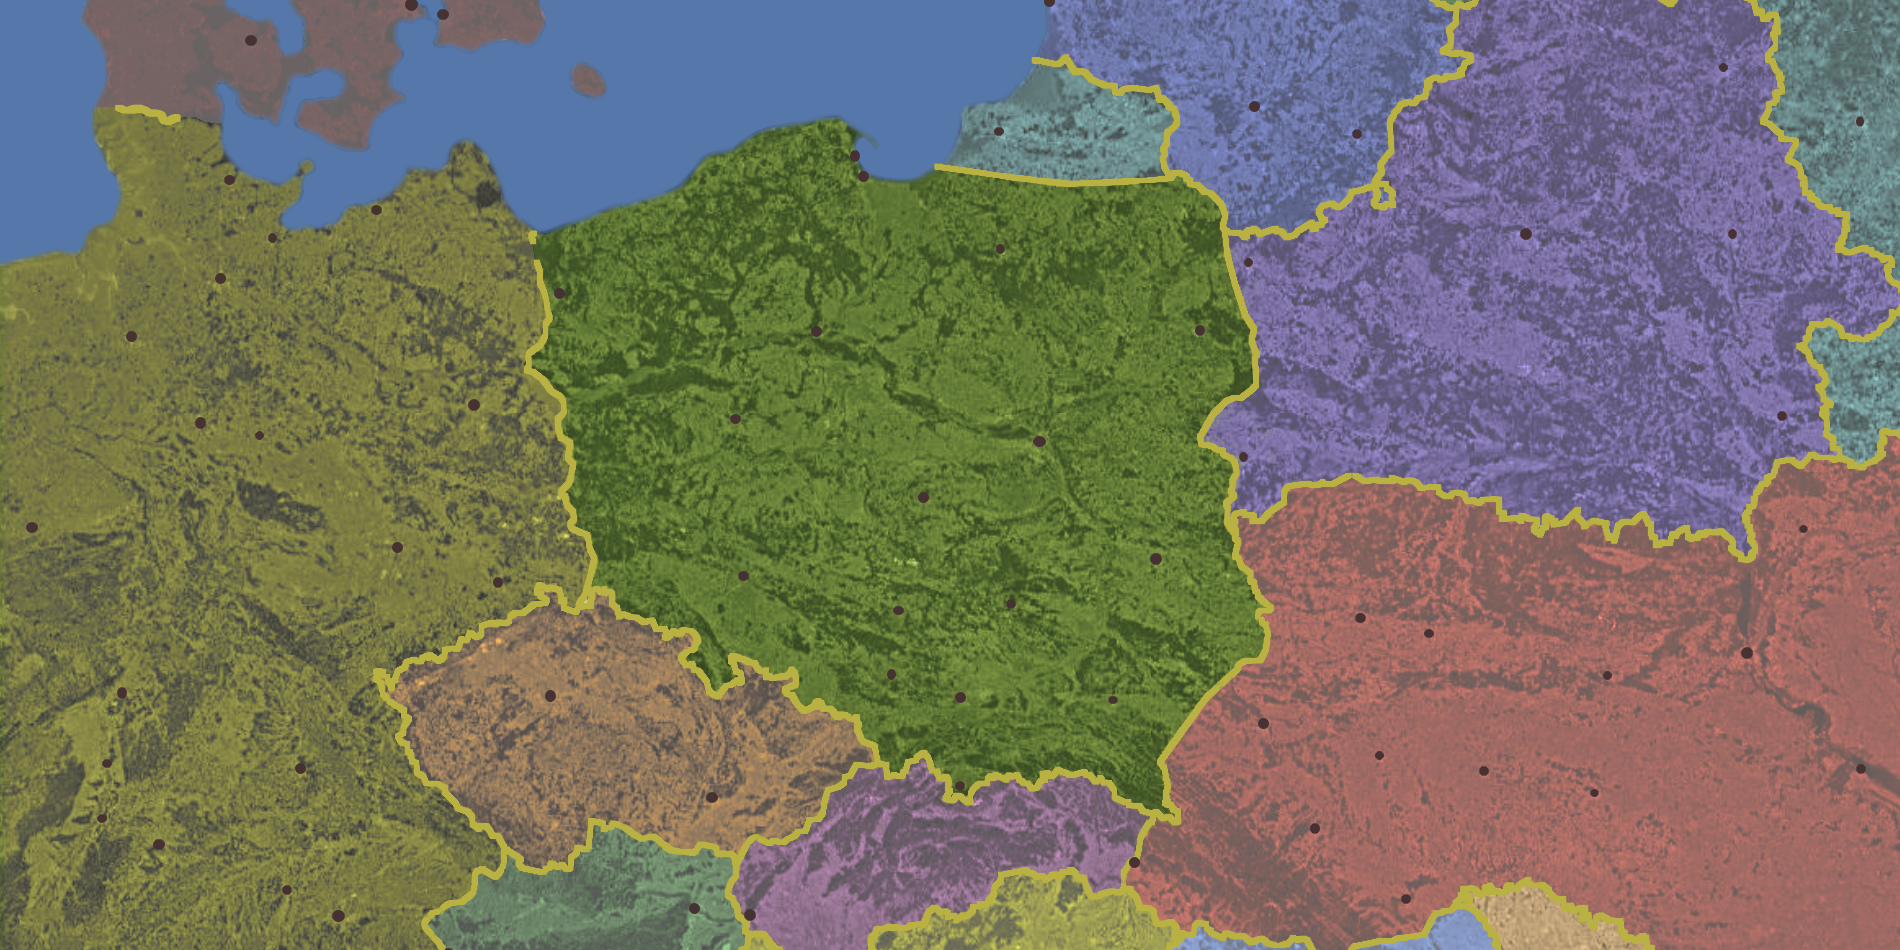
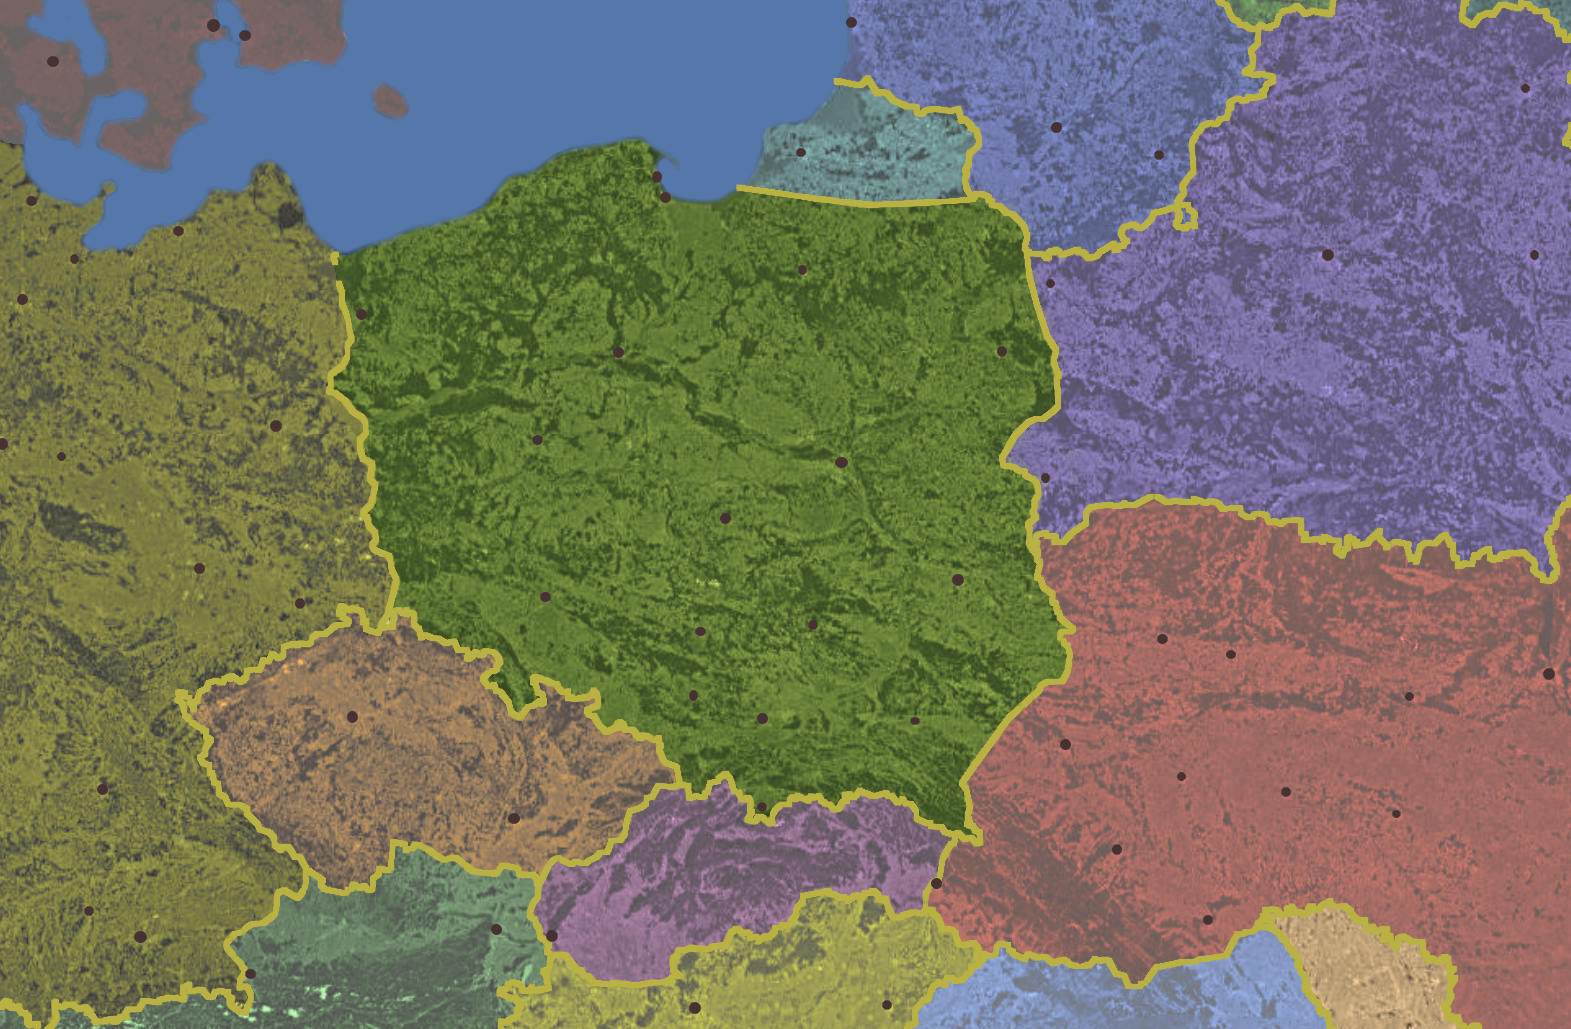
added player info

diff --git a/frontend/src/app/game/player-card/player-card.component.scss b/frontend/src/app/game/player-card/player-card.component.scss
@@ -2,34 +2,33 @@
   display: flex;
   height: 100%;
   align-items: center;
-  margin: 0 .5vw;
-}
 
-.game-card {
-  box-sizing: border-box;
-  margin: 5px;
-  width: 4vw;
-  height: 7vw;
-  border: .5vw solid #DDD;
-  border-radius: .5vw;
-  box-shadow: 0px 0px 15px rgba($color: #000, $alpha: .7);
+  .game-card {
+    box-sizing: border-box;
+    margin: 8px 4px 8px 8px;
+    width: 7vw;
+    height: 4vw;
+    border: .5vw solid #DDD;
+    border-radius: .5vw;
+    box-shadow: 0px 0px 15px rgba($color: #000, $alpha: .7);
+    
+    // transition: all 0.15s linear;
+    // 
+    // &:hover {
+    //   cursor: pointer;
+    //   filter: brightness(110%);
+    //   box-shadow: 5px 5px 25px rgba($color: #000, $alpha: .7);
+    // }
   
-  // transition: all 0.15s linear;
-  // 
-  // &:hover {
-  //   cursor: pointer;
-  //   filter: brightness(110%);
-  //   box-shadow: 5px 5px 25px rgba($color: #000, $alpha: .7);
-  // }
-
-  &--unknown { background: var(--color-cardback); }
-  &--red     { background: var(--color-red); }
-  &--blue    { background: var(--color-blue); }
-  &--green   { background: var(--color-green); }
-  &--yellow  { background: var(--color-yellow); }
-  &--purple  { background: var(--color-purple); }
-  &--orange  { background: var(--color-orange); }
-  &--white   { background: var(--color-white); }
-  &--black   { background: var(--color-black); }
-  &--joker   { background: var(--color-joker); }
+    &--unknown { background: var(--color-cardback); }
+    &--red     { background: var(--color-red); }
+    &--blue    { background: var(--color-blue); }
+    &--green   { background: var(--color-green); }
+    &--yellow  { background: var(--color-yellow); }
+    &--purple  { background: var(--color-purple); }
+    &--orange  { background: var(--color-orange); }
+    &--white   { background: var(--color-white); }
+    &--black   { background: var(--color-black); }
+    &--joker   { background: var(--color-joker); }
+  }
 }

diff --git a/frontend/src/app/game/game.component.scss b/frontend/src/app/game/game.component.scss
@@ -7,12 +7,19 @@
   min-height: 100vh;
   max-height: 100vh;
   display: grid;
+  // grid-template-areas: 
+  //   'card-picker  gamemap'
+  //   'missions     gamemap'
+  //   'missions     player-cards';
+  // grid-template-columns: 1fr 5fr;
+  // grid-template-rows: 2fr 3fr 1fr;
+
   grid-template-areas: 
-    'card-picker  gamemap'
-    'missions     gamemap'
-    'missions     player-cards';
-  grid-template-columns: 1fr 5fr;
-  grid-template-rows: 2fr 3fr 1fr;
+    'card-picker  gamemap       player-cards'
+    'missions     gamemap       player-cards'
+    'missions     player-info   player-cards';
+  grid-template-columns: 1fr 4.4fr 0.6fr;
+  grid-template-rows:    2fr   4fr 0.3fr;
 
   .card-picker {
     display: flex;
@@ -34,18 +41,9 @@
     }
   }
   
-  .gamemap {
+  game-map {
     grid-area: gamemap;
     position: relative;
-
-    img {
-      position: absolute;
-      top: 0;
-      right: 0;
-      object-fit: contain;
-      max-height: 100%;
-      max-width: 100%;
-    }
   }
   
   .missions {
@@ -56,10 +54,26 @@
   .player-cards {
     grid-area: player-cards;
     display: flex;
-    justify-content: center;
+    flex-direction: column;
+    align-items: center;
 
     h3 {
-      margin-top: 12px;
+      margin-top: 10px;
+      text-align: center;
+    }
+  }
+
+  .player-info {
+    grid-area: player-info;
+    display: flex;
+    justify-content: space-evenly;
+    
+    player-info {
+      min-width: 15%;
+      margin: 0 10px;
+      display: flex;
+      flex-direction: column;
+      justify-content: flex-end;
     }
   }
 }

diff --git a/frontend/src/app/game/game-map/game-map.component.ts b/frontend/src/app/game/game-map/game-map.component.ts
@@ -1,0 +1,32 @@
+import { Component, OnInit } from '@angular/core';
+
+@Component({
+  selector: 'game-map',
+  templateUrl: './game-map.component.html',
+  styleUrls: ['./game-map.component.scss']
+})
+export class GameMapComponent implements OnInit {
+
+  constructor() { }
+
+  ngOnInit(): void {
+  }
+
+  createTrain(event: any) {
+    const gameMap = document.querySelector('game-map');
+    const mapWidth = gameMap!.getBoundingClientRect().width;
+    const mapHeight = gameMap!.getBoundingClientRect().height;
+    const train = document.createElement('train');
+    train.style.position = "absolute";
+    train.style.top = `${(event.clientY / mapHeight) * 100}%`;
+    train.style.right = `${(gameMap!.getBoundingClientRect().right - event.clientX) / mapWidth * 100}%`;
+    train.style.width = "45px";
+    train.style.height = "15px";
+    train.style.background = "gray";
+    train.style.boxShadow = "2px 2px 7px black, inset 2px 2px 5px rgba(255, 255, 255, 0.7)";
+    train.style.border = "2px solid darkgray"
+    train.style.cursor = "pointer"
+    gameMap!.appendChild(train);
+  }
+
+}

diff --git a/frontend/src/app/game/game.component.html b/frontend/src/app/game/game.component.html
@@ -1,4 +1,5 @@
 <div class="game-container">
+
   <div class="card-picker">
     <h3 class="card-picker__title">Draw cards: </h3>
     <div class="card-picker__cards">
@@ -13,12 +14,13 @@
         ></game-card>
     </div>
   </div>
-  <div class="gamemap">
-    <img src="/assets/map_cities_edited.png" alt="map">
-  </div>
+
+  <game-map></game-map>
+
   <div class="missions">
 
   </div>
+
   <div class="player-cards">
     <h3>Your cards:</h3>
     <player-card 
@@ -27,4 +29,12 @@
       [card]="playerCard.card"
       ></player-card>
   </div>
+
+  <div class="player-info">
+    <player-info 
+      *ngFor="let player of game.players"
+      [player]="player"
+      ></player-info>
+  </div>
+
 </div>

diff --git a/frontend/src/app/game/player-info/player-info.component.spec.ts b/frontend/src/app/game/player-info/player-info.component.spec.ts
@@ -1,0 +1,25 @@
+import { ComponentFixture, TestBed } from '@angular/core/testing';
+
+import { PlayerInfoComponent } from './player-info.component';
+
+describe('PlayerInfoComponent', () => {
+  let component: PlayerInfoComponent;
+  let fixture: ComponentFixture<PlayerInfoComponent>;
+
+  beforeEach(async () => {
+    await TestBed.configureTestingModule({
+      declarations: [ PlayerInfoComponent ]
+    })
+    .compileComponents();
+  });
+
+  beforeEach(() => {
+    fixture = TestBed.createComponent(PlayerInfoComponent);
+    component = fixture.componentInstance;
+    fixture.detectChanges();
+  });
+
+  it('should create', () => {
+    expect(component).toBeTruthy();
+  });
+});

diff --git a/frontend/src/app/game/game-map/game-map.component.spec.ts b/frontend/src/app/game/game-map/game-map.component.spec.ts
@@ -1,0 +1,25 @@
+import { ComponentFixture, TestBed } from '@angular/core/testing';
+
+import { GameMapComponent } from './game-map.component';
+
+describe('GameMapComponent', () => {
+  let component: GameMapComponent;
+  let fixture: ComponentFixture<GameMapComponent>;
+
+  beforeEach(async () => {
+    await TestBed.configureTestingModule({
+      declarations: [ GameMapComponent ]
+    })
+    .compileComponents();
+  });
+
+  beforeEach(() => {
+    fixture = TestBed.createComponent(GameMapComponent);
+    component = fixture.componentInstance;
+    fixture.detectChanges();
+  });
+
+  it('should create', () => {
+    expect(component).toBeTruthy();
+  });
+});

diff --git a/frontend/src/app/game/game.module.ts b/frontend/src/app/game/game.module.ts
@@ -9,9 +9,11 @@ import { GameResolver } from './game.resolver';
 import { GameCardComponent } from './game-card/game-card.component';
 import { PlayerCardComponent } from './player-card/player-card.component';
 import { AuthModule } from '../auth/auth.module';
+import { GameMapComponent } from './game-map/game-map.component';
+import { PlayerInfoComponent } from './player-info/player-info.component';
 
 @NgModule({
-  declarations: [GameComponent, GameCardComponent, PlayerCardComponent],
+  declarations: [GameComponent, GameCardComponent, PlayerCardComponent, GameMapComponent, PlayerInfoComponent],
   imports: [
     CommonModule,
     AuthModule,

diff --git a/frontend/src/app/game/player-info/player-info.component.scss b/frontend/src/app/game/player-info/player-info.component.scss
@@ -1,0 +1,18 @@
+.player-box {
+  background: red;
+  border: 2px solid darkred;
+  border-bottom: 0;
+  border-radius: 15px 15px 0 0;
+  padding: 3px 10px 0;
+  margin-top: 2px;
+  text-align: center;
+  color: white;
+  text-shadow: 1px 1px 0 black, -1px -1px 0 black, 1px -1px 0 black, -1px 1px 0 black;
+  width: 100%;
+  box-sizing: border-box;
+
+  h6 {
+    font-size: 0.9rem;
+    margin-bottom: 0.15rem;
+  }
+}

diff --git a/frontend/src/app/game/player-info/player-info.component.ts b/frontend/src/app/game/player-info/player-info.component.ts
@@ -1,0 +1,17 @@
+import { Component, Input, OnInit } from '@angular/core';
+
+@Component({
+  selector: 'player-info',
+  templateUrl: './player-info.component.html',
+  styleUrls: ['./player-info.component.scss']
+})
+export class PlayerInfoComponent implements OnInit {
+
+  constructor() { }
+
+  @Input() player: any;
+
+  ngOnInit(): void {
+  }
+
+}

diff --git a/frontend/src/app/game/player-info/player-info.component.html b/frontend/src/app/game/player-info/player-info.component.html
@@ -1,0 +1,4 @@
+<div class="player-box">
+  <h6>{{ player.username }}</h6>
+  <h6>trains: {{ player.trains }} &nbsp;&nbsp; cards: {{player.cards.length }}</h6>
+</div>

diff --git a/frontend/src/app/game/game-map/game-map.component.scss b/frontend/src/app/game/game-map/game-map.component.scss
@@ -1,0 +1,6 @@
+img {
+  object-fit: contain;
+  object-position: top right;
+  height: 100%;
+  width: 100%;
+}

diff --git a/frontend/src/app/game/game-map/game-map.component.html b/frontend/src/app/game/game-map/game-map.component.html
@@ -1,0 +1,1 @@
+<img src="/assets/map_cities_edited.png" alt="map" (click)="createTrain($event)">
